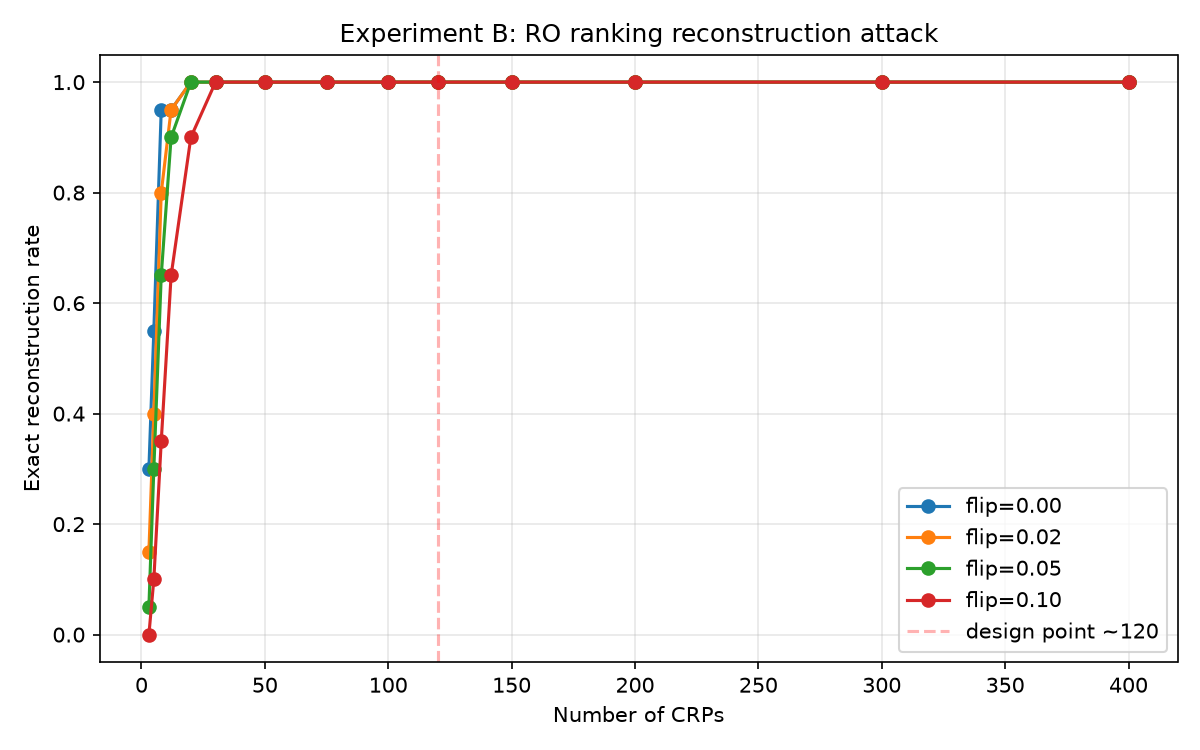
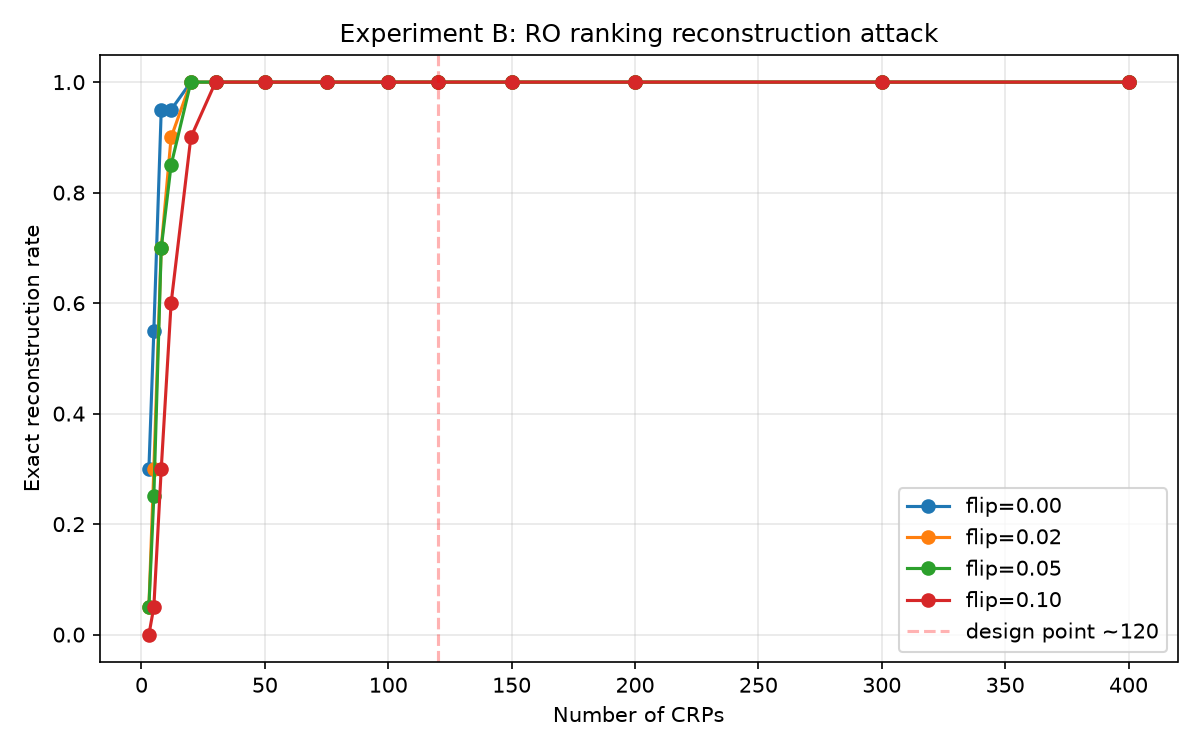
fix(w4-p5): frozen conclusion_B unicode typo 坠(U+5760)→坍(U+574D)
The frozen text says 坍缩 (collapse) but the unicode escape encoded 坠缩 (fall-shrink) -- one stroke apart, U+5760 vs U+574D. Discovered during P5 content review via programmatic in-spec check: conclusion_B in spec was False, now True after fix. conclusion_A was already correct.

Verify: conclusion_B in spec == True; 11/11 unit tests pass; exp_b regenerated with same seed (identical numbers, only the text field changed)

Changed region(s): [[0.1233, 0.1227, 0.1542, 0.828]]

diff --git a/src/python/evaluation/ml_attack.py b/src/python/evaluation/ml_attack.py
@@ -47,7 +47,7 @@ from src.python.evaluation.puf_model import (
 
 CONCLUSION_A = "\u6587\u732e\u57fa\u7ebf\u5728\u6211\u4eec\u7684\u8bc4\u4f30\u6846\u67b6\u4e2d\u590d\u73b0\u6210\u529f"
 CONCLUSION_B = (
-    "CRP \u7a7a\u95f4\u5760\u7f29\u81f3 ~2\u00d710^6 \u79cd\u914d\u5bf9\u6784\u578b\uff0c"
+    "CRP \u7a7a\u95f4\u574D\u7f29\u81f3 ~2\u00d710^6 \u79cd\u914d\u5bf9\u6784\u578b\uff0c"
     "\u6392\u5e8f\u91cd\u6784\u653b\u51fb\u5728 ~120 \u6b21\u89c2\u6d4b\u5185"
     "\u53ef\u6062\u590d\u5b8c\u6574\u6392\u5e8f\u2014\u2014"
     "\u8fd9\u662f\u6211\u4eec\u8bbe\u8ba1\u7684\u5df2\u77e5\u8fb9\u754c\uff0c"
